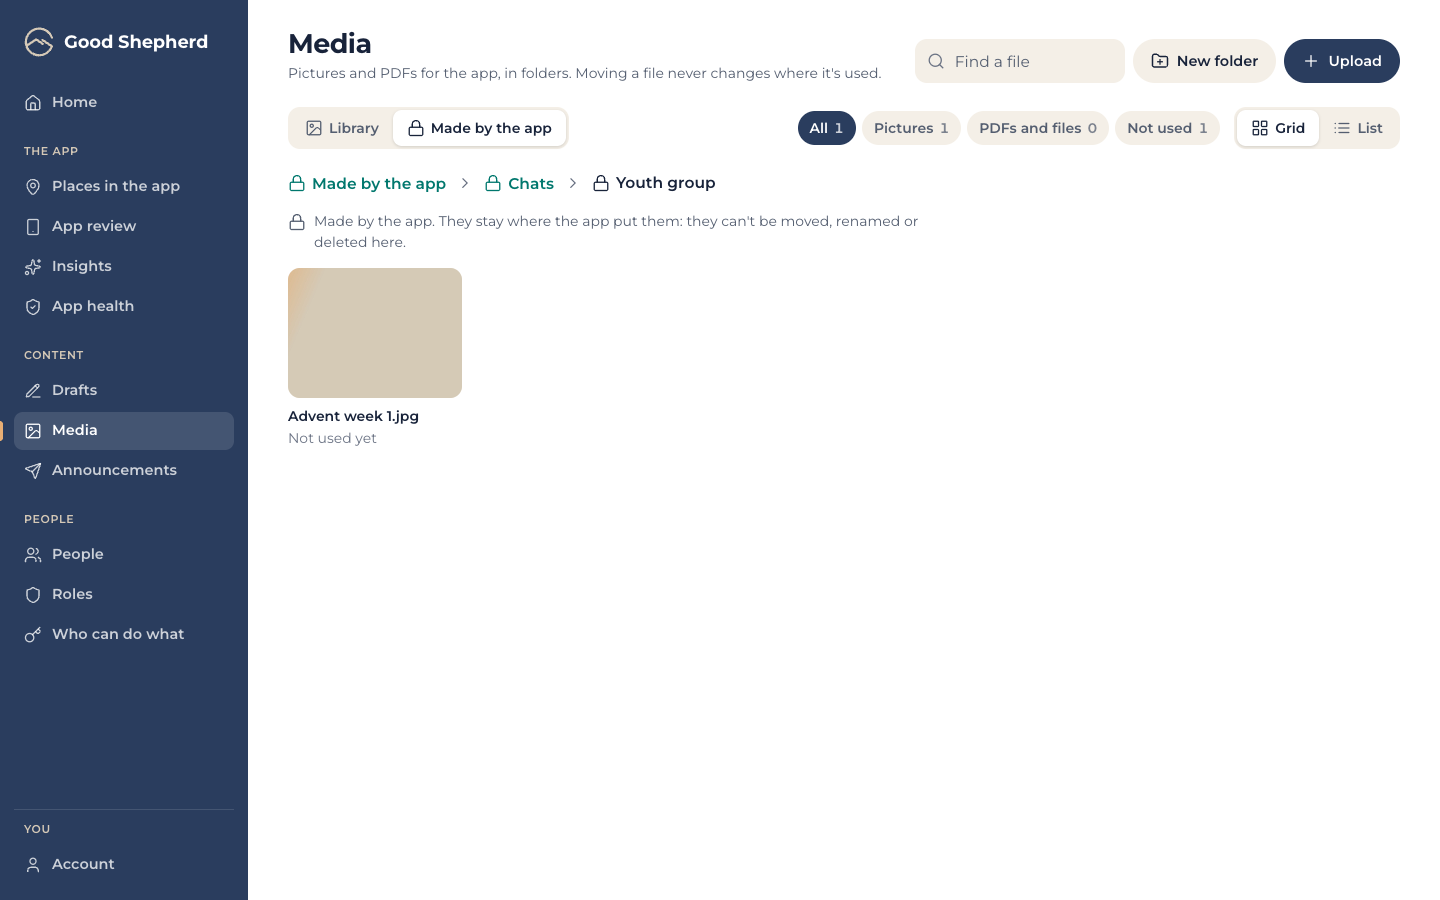
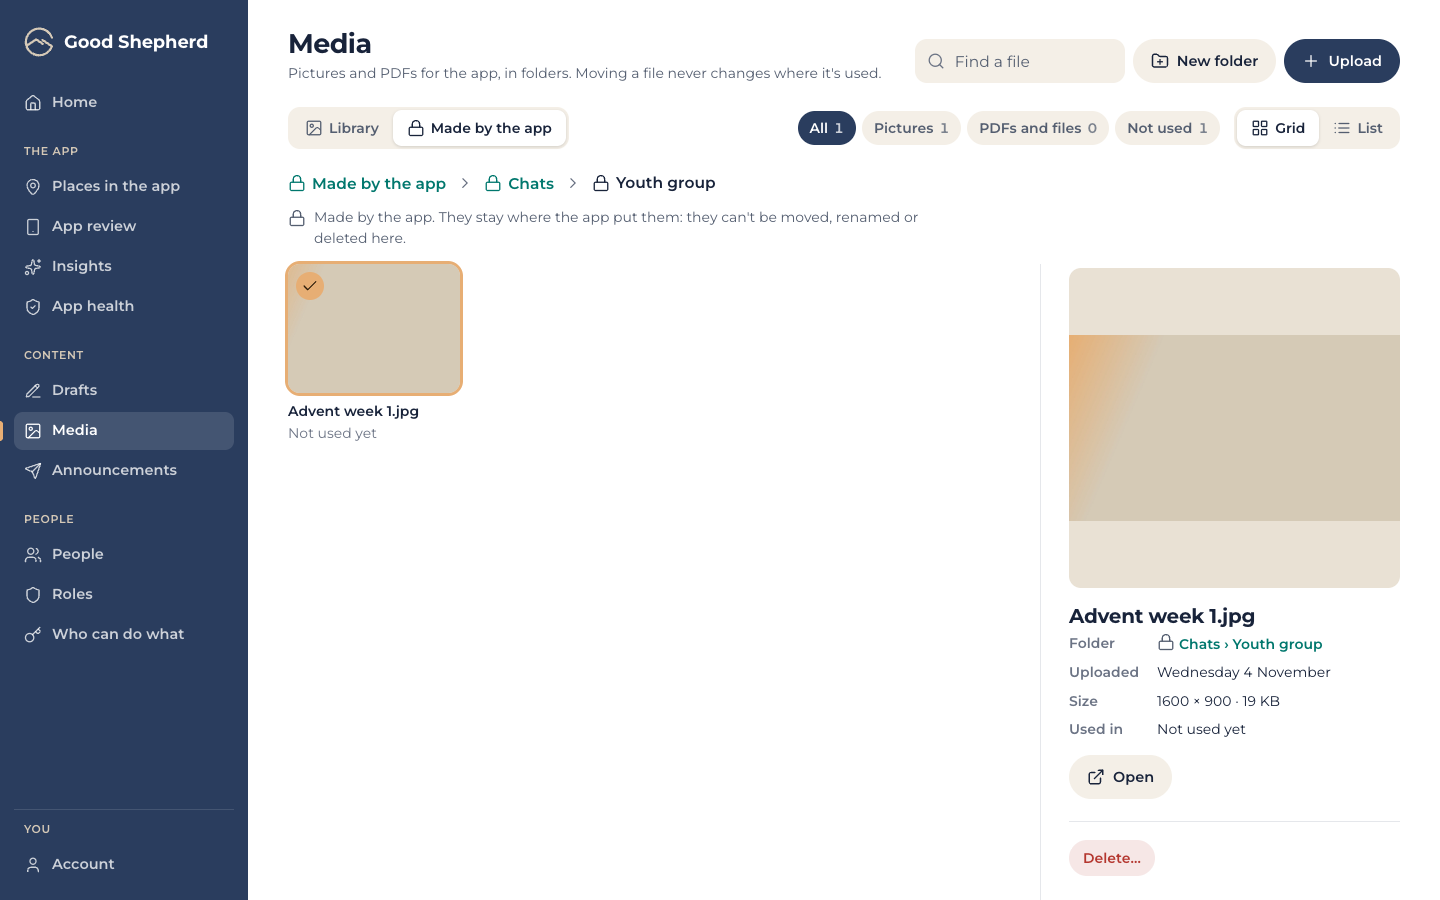
Media library: breadcrumbs, folder actions and the system note sit above the detail pane too, so opening a file never moves the grid at any depth
Claude-Session: https://claude.ai/code/session_01KqANXgj2Qx7njurrSTsBxX

diff --git a/src/Hosts/GSBC.ChurchApp.Hosts.Admin/wwwroot/css/admin.css b/src/Hosts/GSBC.ChurchApp.Hosts.Admin/wwwroot/css/admin.css
@@ -246,6 +246,7 @@ code, .patterns { font-family: ui-monospace, "SF Mono", Menlo, monospace; font-s
 .title-band__actions .media-search { flex: 0 1 210px; min-width: 180px; }
 .media-library { display: grid; gap: 16px; min-width: 0; }
 .media-library__bar--top { margin-bottom: 16px; }
+.media-library__head { display: grid; gap: 12px; margin-bottom: 16px; }
 .media-library__only-folders { margin: 4px 0 0; color: var(--ink-2); font-size: var(--text-caption); }
 .media-library__bar { display: flex; flex-wrap: wrap; align-items: center; justify-content: space-between; gap: 12px 20px; }
 .media-library__bar .segmented, .media-library__tools .segmented { grid-auto-columns: auto; width: max-content; }
